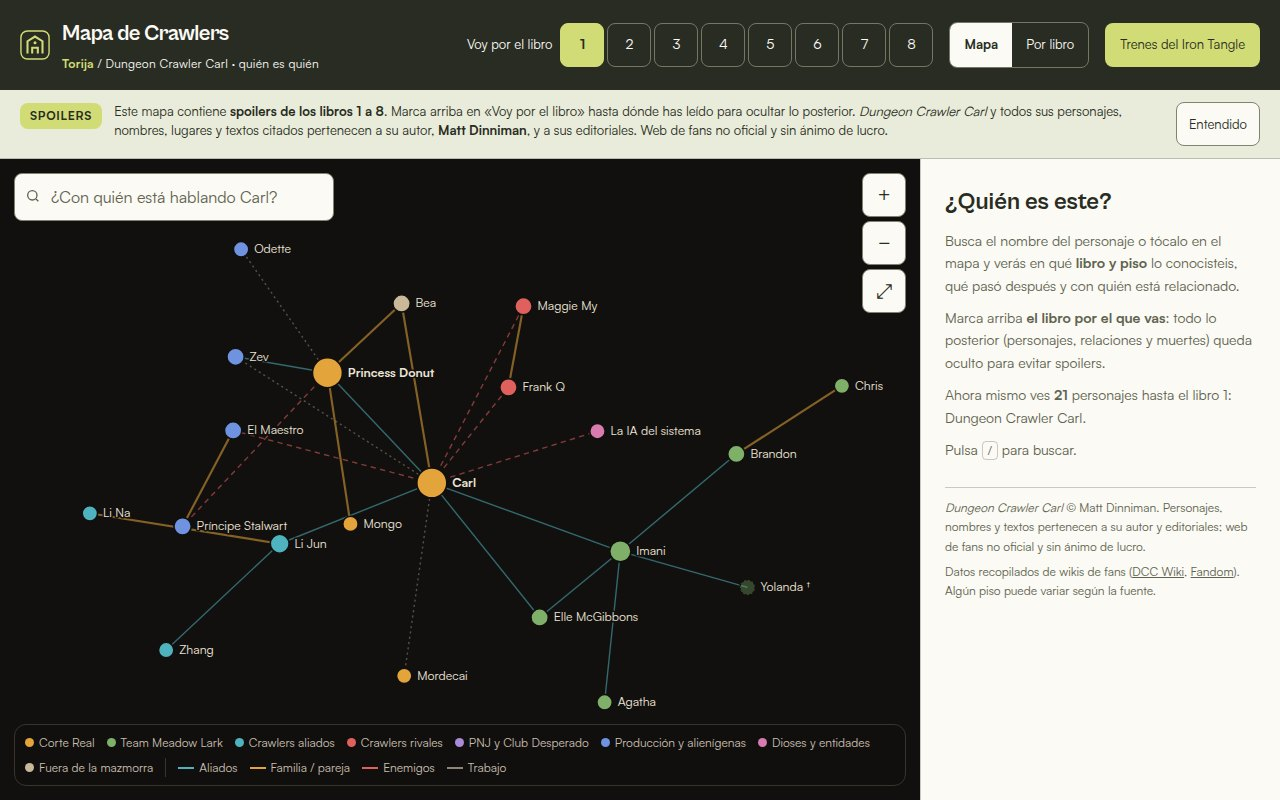
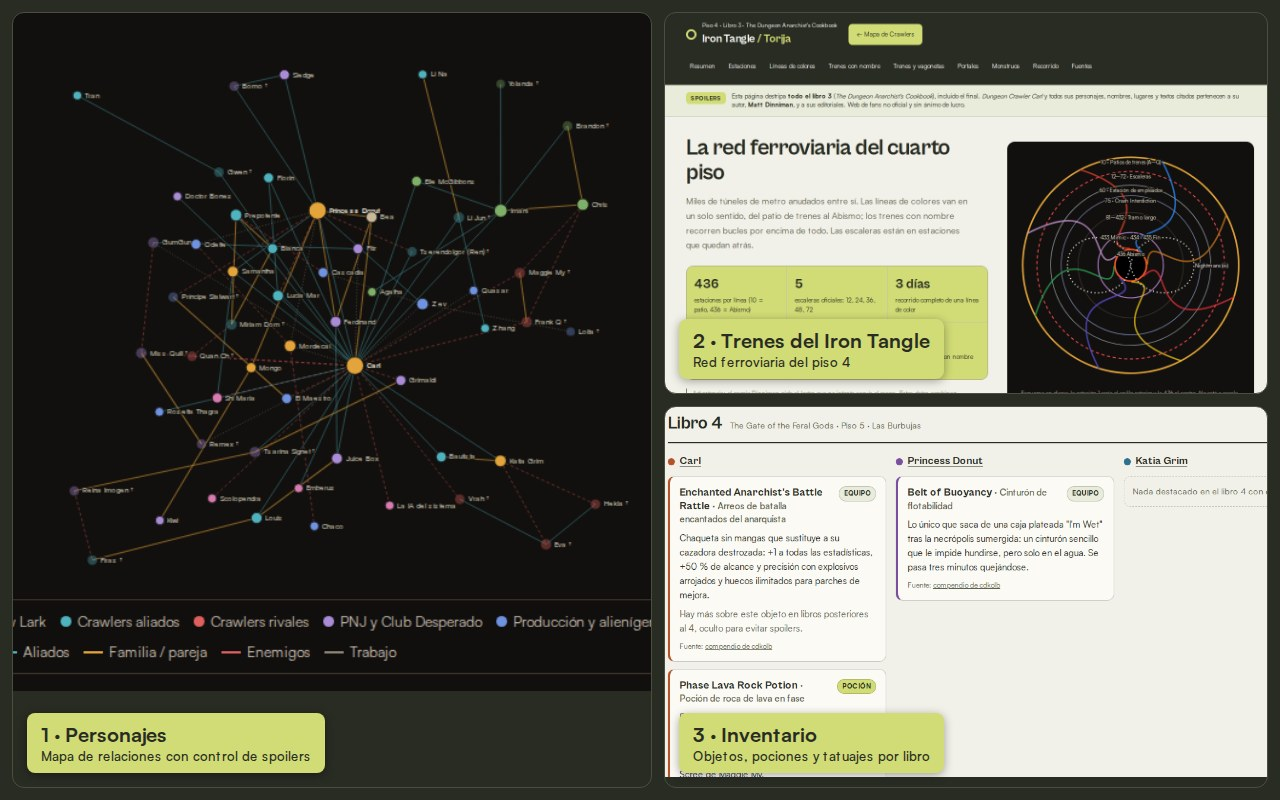
Dossier 1.3.17: ficha DCC con sus tres zonas

diff --git a/index.html b/index.html
@@ -173,12 +173,17 @@ footer{border-top:1px solid var(--line);padding:28px 0 48px;color:var(--muted);f
         </article>
 
         <article class="card">
-          <img src="img/dcc-mapa.jpg?v=1.3.1" alt="Mapa de Crawlers con diseño Torija, selector en el libro 1 y avisos de spoilers y autoría">
+          <img src="img/dcc-mapa.jpg?v=1.4.2" alt="Las tres zonas del Mapa de Crawlers: grafo de personajes, red ferroviaria del Iron Tangle e inventario de objetos por libro">
           <div class="body">
-            <div class="meta"><span class="tag web">Acceso libre</span><span>v1.3.0 · Mapa de un libro · Diseño Torija</span></div>
+            <div class="meta"><span class="tag web">Acceso libre</span><span>v1.4.2 · Mapa de un libro · Diseño Torija</span></div>
             <h3>Mapa de Crawlers DCC</h3>
-            <p>Grafo interactivo de los personajes de la saga «Dungeon Crawler Carl», de Matt Dinniman, con el libro y el piso de la mazmorra de cada encuentro. Un selector oculta los spoilers según el libro por el que vas. Incluye una vista de la red ferroviaria del cuarto piso (libro 3): estaciones, líneas de colores, trenes con nombre, vagonetas, portales y dónde hay monstruos. Ambas vistas utilizan el diseño Torija, con sus colores de datos y controles de spoilers conservados.</p>
-            <dl><dt>Cómo usarlo</dt><dd>Marca arriba el libro por el que vas, busca un nombre o pulsa un personaje; el botón «Trenes del Iron Tangle» abre la red de metro.</dd><dt>Aviso</dt><dd>Contiene spoilers. Es una web de fans no oficial; la saga y sus personajes pertenecen a su autor y editoriales. El código es privado.</dd></dl>
+            <p>Guía interactiva de la saga «Dungeon Crawler Carl», de Matt Dinniman, con control de spoilers según el libro por el que vas. Se organiza en tres zonas:</p>
+            <ul class="zones">
+              <li><a href="https://torija69.github.io/dcc-mapa/" target="_blank" rel="noopener"><b>Personajes</b></a>. Grafo de 59 personajes con el libro y el piso de cada encuentro, sus relaciones y quién muere y cuándo.</li>
+              <li><a href="https://torija69.github.io/dcc-mapa/iron-tangle/" target="_blank" rel="noopener"><b>Trenes del Iron Tangle</b></a>. Red ferroviaria del cuarto piso (libro 3): estaciones, líneas de colores, trenes con nombre, vagonetas, portales y monstruos.</li>
+              <li><a href="https://torija69.github.io/dcc-mapa/objetos/" target="_blank" rel="noopener"><b>Inventario</b></a>. 100 objetos, pociones y tatuajes de Carl, Princess Donut y Katia por libro, con el nombre en inglés y su traducción, cómo evolucionan y cuándo se pierden.</li>
+            </ul>
+            <dl><dt>Cómo usarlo</dt><dd>Marca arriba el libro por el que vas y busca un nombre o pulsa un personaje. Los botones «Trenes del Iron Tangle» e «Inventario» abren las otras dos zonas.</dd><dt>Aviso</dt><dd>Contiene spoilers. Es una web de fans no oficial; la saga y sus personajes pertenecen a su autor y editoriales. El código es privado.</dd></dl>
             <span class="print-url">https://torija69.github.io/dcc-mapa/</span>
             <a class="btn" href="https://torija69.github.io/dcc-mapa/" target="_blank" rel="noopener">Abrir el mapa →</a>
           </div>
@@ -332,7 +337,7 @@ footer{border-top:1px solid var(--line);padding:28px 0 48px;color:var(--muted);f
           <tr><td>LaAudiolibrotecaDelTori</td><td>Catálogo de audiolibros por tipo, serie y valoración</td><td><a href="https://torija69.github.io/LaAudiolibrotecaDelTori/">Abrir audiolibroteca</a> (consulta pública; administración con cuenta)</td><td>v1.3.2 · Diseño Torija</td></tr>
           <tr><td>Mapa café de Tokio</td><td>Relaciones de personajes de una novela</td><td><a href="https://torija69.github.io/mapa-cafe-tokio/">torija69.github.io/mapa-cafe-tokio</a> (acceso libre)</td><td>v1.2.0</td></tr>
           <tr><td>Mapa lunes con matcha</td><td>Relaciones de personajes de una novela</td><td><a href="https://torija69.github.io/mapa-lunes-matcha/">torija69.github.io/mapa-lunes-matcha</a></td><td>v1.2.0</td></tr>
-          <tr><td>Mapa de Crawlers DCC</td><td>Personajes y trenes, con control de spoilers</td><td><a href="https://torija69.github.io/dcc-mapa/">torija69.github.io/dcc-mapa</a></td><td>v1.3.0</td></tr>
+          <tr><td>Mapa de Crawlers DCC</td><td>Tres zonas: personajes, trenes e inventario, con control de spoilers</td><td><a href="https://torija69.github.io/dcc-mapa/">torija69.github.io/dcc-mapa</a></td><td>v1.4.2</td></tr>
           <tr><td>TrinukaCuadros</td><td>Certámenes de pintura 2026–2027</td><td><a href="https://torija69.github.io/trinukacuadros/">torija69.github.io/trinukacuadros</a></td><td>v1.1.1</td></tr>
           <tr><td>Repaso de errores · Permiso B</td><td>Repaso de los fallos de los tests de conducir</td><td><a href="https://torija69.github.io/repaso-permiso-b/">torija69.github.io/repaso-permiso-b</a></td><td>v2.1.0 (con cuenta) · Diseño Torija</td></tr>
           <tr><td>CasaMarta</td><td>Venta y compra de vivienda familiar</td><td><a href="https://torija69.github.io/casamarta/">torija69.github.io/casamarta</a> (con cuenta)</td><td>v1.0.0</td></tr>
@@ -366,7 +371,7 @@ footer{border-top:1px solid var(--line);padding:28px 0 48px;color:var(--muted);f
 </main>
 
 <footer>
-  <div class="wrap">Dossier v1.3.16 · Diseño Torija v1.0.0 · Adaptación visual del 22 de octubre de 2026. Mapa DCC actualizado el 22 de octubre. Dieta v1.6.0 y su captura de acceso revisadas el 25 de octubre de 2026. Desde el 25 de octubre de 2026, todas las webs se publican en GitHub Pages con acceso libre, por indicación del propietario. Ambos mapas de Aoyama conservan v1.2.0 y sus direcciones definitivas. LaAudiolibrotecaDelTori conserva v1.3.2 y su esquema propio Audiobiblioteca. El repaso de errores del permiso B se añadió el 26 de octubre de 2026 y ese mismo día pasó a v2.0.0, con cuenta para sus dos usuarios; el 27 de octubre, v2.1.0 añade las imágenes de las preguntas. Las aplicaciones locales se muestran en su Mac; los datos personales no forman parte de las demostraciones.</div>
+  <div class="wrap">Dossier v1.3.17 · Diseño Torija v1.0.0 · Adaptación visual del 22 de octubre de 2026. Mapa DCC v1.4.2, con sus tres zonas (personajes, trenes e inventario), actualizado el 13 de noviembre de 2026. Dieta v1.6.0 y su captura de acceso revisadas el 25 de octubre de 2026. Desde el 25 de octubre de 2026, todas las webs se publican en GitHub Pages con acceso libre, por indicación del propietario. Ambos mapas de Aoyama conservan v1.2.0 y sus direcciones definitivas. LaAudiolibrotecaDelTori conserva v1.3.2 y su esquema propio Audiobiblioteca. El repaso de errores del permiso B se añadió el 26 de octubre de 2026 y ese mismo día pasó a v2.0.0, con cuenta para sus dos usuarios; el 27 de octubre, v2.1.0 añade las imágenes de las preguntas. Las aplicaciones locales se muestran en su Mac; los datos personales no forman parte de las demostraciones.</div>
 </footer>
 </body>
 </html>

diff --git a/styles/dossier-torija.css b/styles/dossier-torija.css
@@ -44,6 +44,8 @@ body.torija {
 .torija .card .body { padding:24px; gap:16px; }
 .torija .card h3 { font-family:var(--tj-font-display); font-size:24px; font-weight:700; letter-spacing:-.02em; line-height:1.2; overflow-wrap:anywhere; }
 .torija .card p { line-height:1.7; }
+.torija .card .zones { margin:0; padding-left:20px; line-height:1.6; display:grid; gap:6px; }
+.torija .card .zones b { font-weight:700; }
 .torija .meta { color:var(--tj-muted); align-items:center; font-size:13px; }
 .torija code { background:var(--tj-soft); color:var(--tj-text); }
 .torija dl { font-size:14px; }
